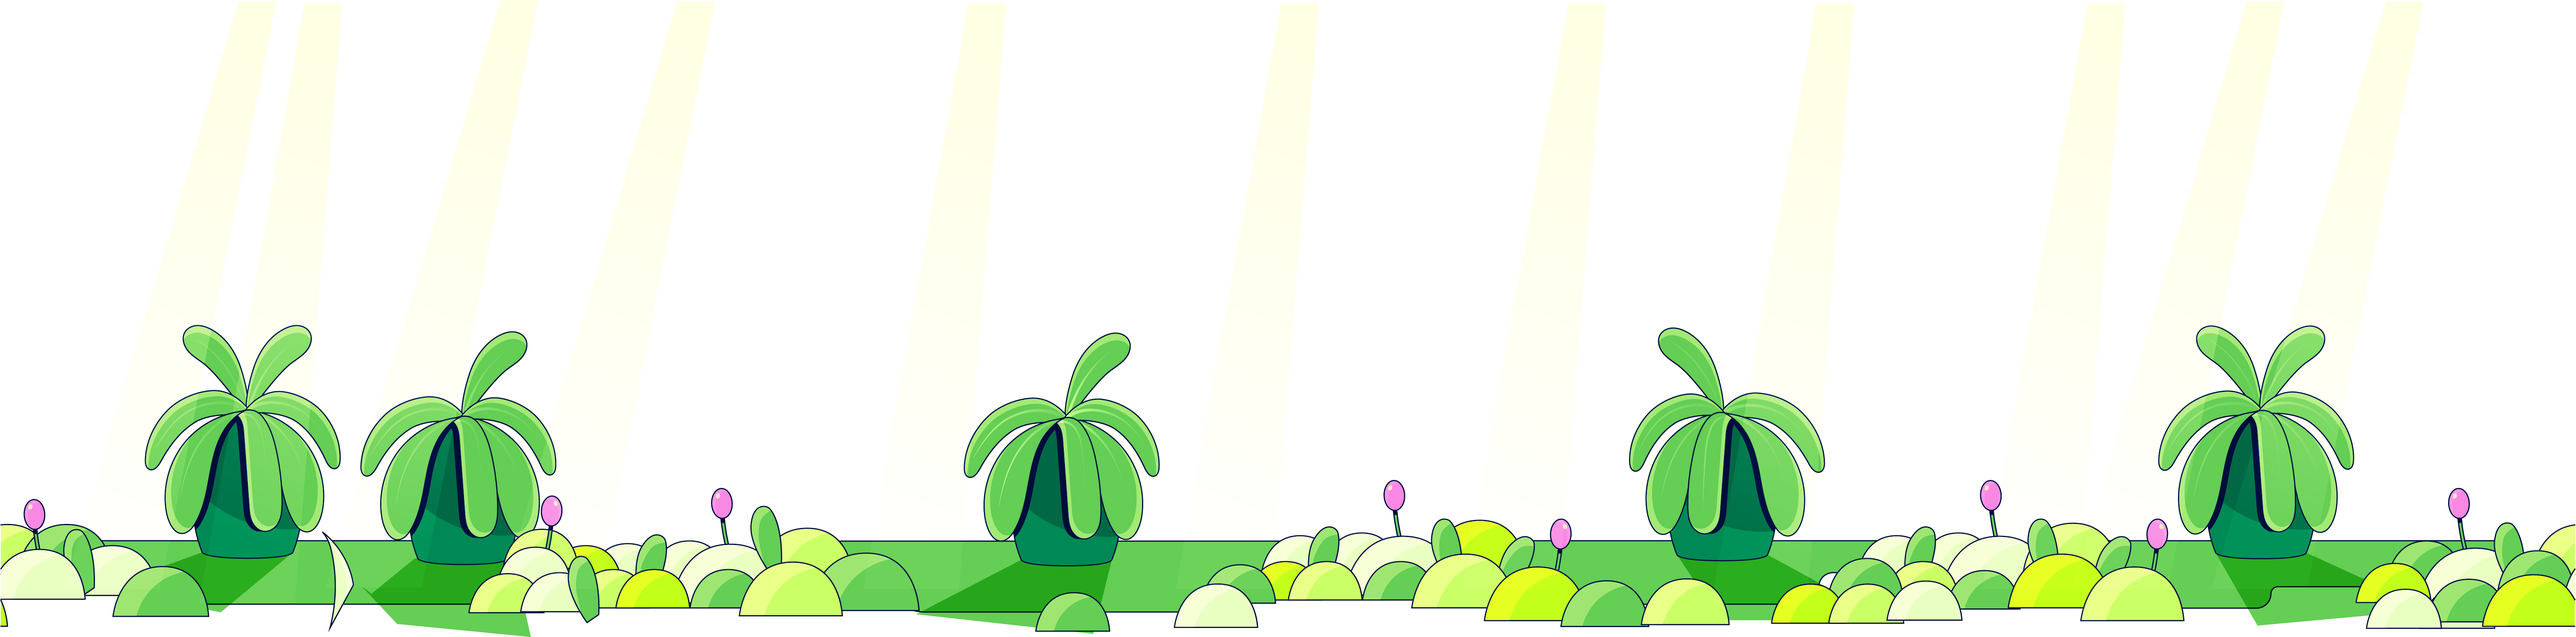
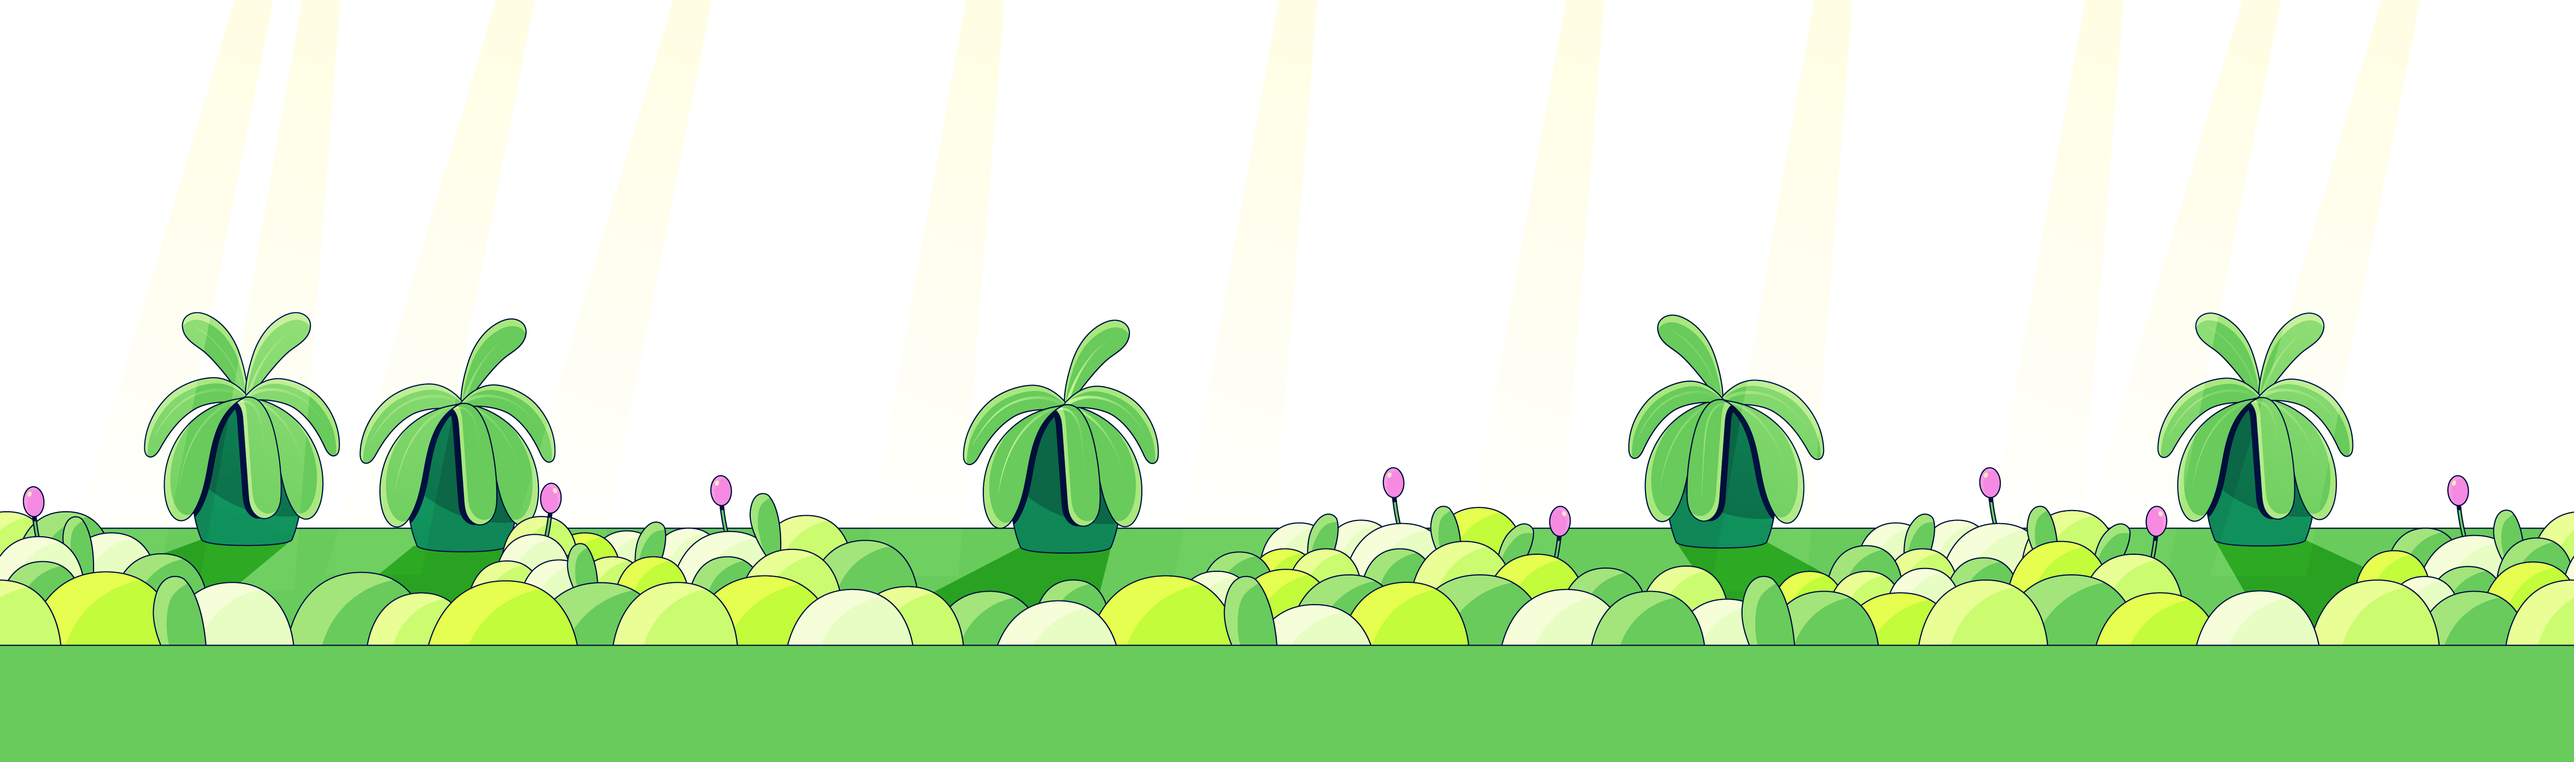
:construction: #50 add worlds config file + add jungle assets + add variables as Props for decor assets path => To be improved with the new structure (coming soon)

diff --git a/src/views/game/index.tsx b/src/views/game/index.tsx
@@ -1,4 +1,4 @@
-import React, { FC } from "react";
+import React, { FC, useMemo } from "react";
 
 // components
 import Area from "../../components/Area";
@@ -8,25 +8,51 @@ import GameBackground from "../../components/GameBackground";
 import GamePhaser from "../../components/GamePhaser";
 import GameInterface from "../../components/GameInterface";
 
+// config
+import { worlds } from "../../config/worlds";
+
 // assets
 import "./index.scss";
 
 const Game: FC = () => {
+  const world = "mountain";
+
+  const worldProperties = useMemo(() => {
+    for (let i = 0; i < worlds.length; i++) {
+      if (worlds[i].name === world) {
+        const properties = {
+          bgColor: worlds[i].bgColor,
+          bgBleedColor: worlds[i].bgBleedColor,
+          colorTheme: worlds[i].colorTheme
+        };
+        return properties;
+      }
+    }
+  }, []);
+
   // return
 
   return (
-    <div style={{ backgroundColor: "#A4E7FF" }} className="game">
+    <div style={{ backgroundColor: worldProperties!.bgColor }} className="game">
       <Area height="min">
-        <GameBackground />
-        <GameDecoration position="top" />
-        <GameDecoration position="bottom" />
+        <GameBackground world={world} />
+        <GameDecoration world={world} position="top" />
+        <GameDecoration world={world} position="bottom" />
         <GamePhaser />
       </Area>
       <Area height="max">
-        <GameDecorationBleed position="top" />
-        <GameDecorationBleed position="bottom" />
+        <GameDecorationBleed
+          bgBleedColor={worldProperties!.bgBleedColor}
+          world={world}
+          position="top"
+        />
+        <GameDecorationBleed
+          bgBleedColor={worldProperties!.bgBleedColor}
+          world={world}
+          position="bottom"
+        />
       </Area>
-      <GameInterface />
+      <GameInterface colorTheme={worldProperties!.colorTheme} />
     </div>
   );
 };

diff --git a/src/components/GameDecorationBleed/index.tsx b/src/components/GameDecorationBleed/index.tsx
@@ -9,9 +9,11 @@ import "./index.scss";
 
 interface Props {
   position: string;
+  world: string;
+  bgBleedColor: string;
 }
 
-const GameDecorationBleed: FC<Props> = ({ position }) => {
+const GameDecorationBleed: FC<Props> = ({ position, world, bgBleedColor }) => {
   const [decorationHeight, setDecorationHeight] = useState<number>(0);
 
   // selectors
@@ -45,14 +47,15 @@ const GameDecorationBleed: FC<Props> = ({ position }) => {
           className="source"
           style={{
             height: `${decorationHeight}px`,
-            backgroundImage: `url(${require("../../assets/worlds/mountain/decorations/bleeds/" +
-              position +
-              ".png")})`
+            backgroundImage: `url(${require(`../../assets/worlds/${world}/decorations/bleeds/${position}.png`)})`
           }}
         ></div>
         <div
           className="source__color-bleed"
-          style={{ height: `${colorBleedHeight}px` }}
+          style={{
+            height: `${colorBleedHeight}px`,
+            backgroundColor: bgBleedColor
+          }}
         ></div>
       </div>
     </div>

diff --git a/src/components/GameBackground/index.tsx b/src/components/GameBackground/index.tsx
@@ -3,20 +3,24 @@ import React, { FC } from "react";
 // style
 import "./index.scss";
 
-const GameBackground: FC = () => {
+interface Props {
+  world: string;
+}
+
+const GameBackground: FC<Props> = ({ world }) => {
   // return
   return (
     <div className="game-decoration__backgrounds">
       <div
         className="game-decoration__background"
         style={{
-          backgroundImage: `url(${require("../../assets/worlds/mountain/background-1.png")})`
+          backgroundImage: `url(${require(`../../assets/worlds/${world}/background-1.png`)})`
         }}
       ></div>
       <div
         className="game-decoration__background"
         style={{
-          backgroundImage: `url(${require("../../assets/worlds/mountain/background-2.png")})`
+          backgroundImage: `url(${require(`../../assets/worlds/${world}/background-2.png`)})`
         }}
       ></div>
     </div>

diff --git a/src/components/InterfaceButton/index.scss b/src/components/InterfaceButton/index.scss
@@ -33,6 +33,24 @@
     box-shadow: inset 5px 5px 0 #74abff, inset -5px -5px 0 #344dff;
   }
 
+  &--pink {
+    background: $pink;
+    color: $white;
+
+    -moz-box-shadow: inset 5px 5px 0 #fbacec, inset -5px -5px 0 #ec64d3;
+    -webkit-box-shadow: inset 5px 5px 0 #fbacec, inset -5px -5px 0 #ec64d3;
+    box-shadow: inset 5px 5px 0 #fbacec, inset -5px -5px 0 #ec64d3;
+  }
+
+  &--red {
+    background: $red;
+    color: $white;
+
+    -moz-box-shadow: inset 5px 5px 0 #ed8787, inset -5px -5px 0 #f93030;
+    -webkit-box-shadow: inset 5px 5px 0 #ed8787, inset -5px -5px 0 #f93030;
+    box-shadow: inset 5px 5px 0 #ed8787, inset -5px -5px 0 #f93030;
+  }
+
   &--small {
     height: 45px;
   }

diff --git a/src/components/GameDecoration/index.tsx b/src/components/GameDecoration/index.tsx
@@ -5,9 +5,10 @@ import "./index.scss";
 
 interface Props {
   position: string;
+  world: string;
 }
 
-const GameDecoration: FC<Props> = ({ position }) => {
+const GameDecoration: FC<Props> = ({ position, world }) => {
   // return
   return (
     <div
@@ -16,9 +17,7 @@ const GameDecoration: FC<Props> = ({ position }) => {
       <div
         className="source"
         style={{
-          backgroundImage: `url(${require("../../assets/worlds/mountain/decorations/" +
-            position +
-            ".png")})`
+          backgroundImage: `url(${require(`../../assets/worlds/${world}/decorations/${position}.png`)})`
         }}
       ></div>
     </div>

diff --git a/src/components/GameInterface/index.tsx b/src/components/GameInterface/index.tsx
@@ -10,7 +10,11 @@ import { ReactComponent as PauseSVG } from "../../assets/icons/pause.svg";
 // style
 import "./index.scss";
 
-const GameInterface: FC = () => {
+interface Props {
+  colorTheme: Colors;
+}
+
+const GameInterface: FC<Props> = ({ colorTheme }) => {
   // states
 
   const [gamePaused, setGamePaused] = useState<boolean>(false);
@@ -28,7 +32,7 @@ const GameInterface: FC = () => {
     <div className="game-interface">
       <InterfaceButton
         onClick={() => handleOnClickToggleGameState(true)}
-        color={Colors.blue}
+        color={colorTheme}
         classNames="game-interface__pause button--round"
       >
         <PauseSVG />

diff --git a/src/config/worlds.ts b/src/config/worlds.ts
@@ -1,0 +1,28 @@
+import { Colors } from "../components/InterfaceButton";
+
+export const worlds = [
+  {
+    name: "jungle",
+    bgColor: "#E8FDC4",
+    bgBleedColor: "#006845",
+    colorTheme: Colors.red
+  },
+  {
+    name: "river",
+    bgColor: "#BBCBFC",
+    bgBleedColor: "#000D3B",
+    colorTheme: Colors.pink
+  },
+  {
+    name: "mountain",
+    bgColor: "#A4E7FF",
+    bgBleedColor: "#1B62E0",
+    colorTheme: Colors.red
+  },
+  {
+    name: "desert",
+    bgColor: "#FFE75E",
+    bgBleedColor: "#FB472A",
+    colorTheme: Colors.blue
+  }
+];

diff --git a/src/components/GameDecorationBleed/index.scss b/src/components/GameDecorationBleed/index.scss
@@ -4,12 +4,6 @@
     position: absolute;
     width: 100%;
 
-    .source {
-      &__color-bleed {
-        background: #1b62e0;
-      }
-    }
-
     &--top {
       top: 0;
 
